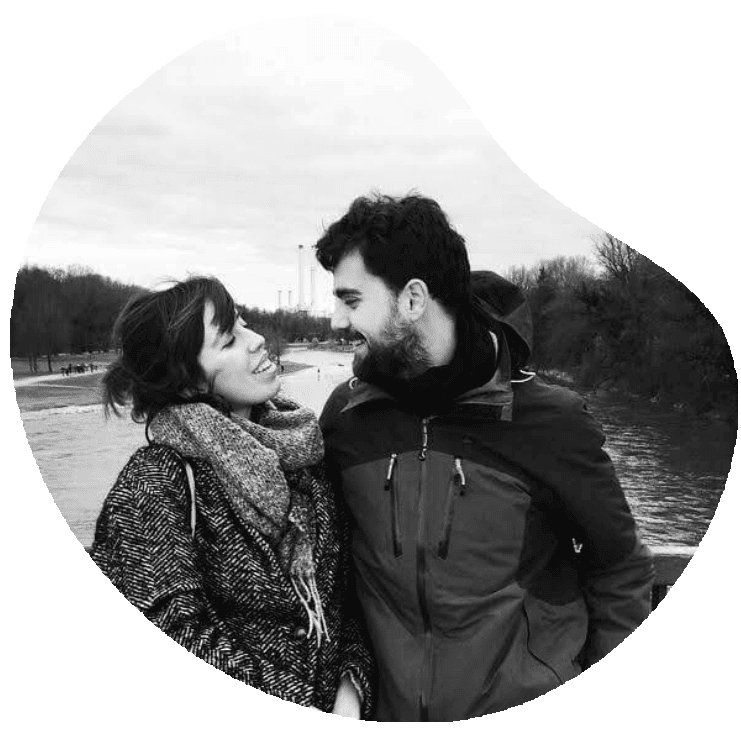
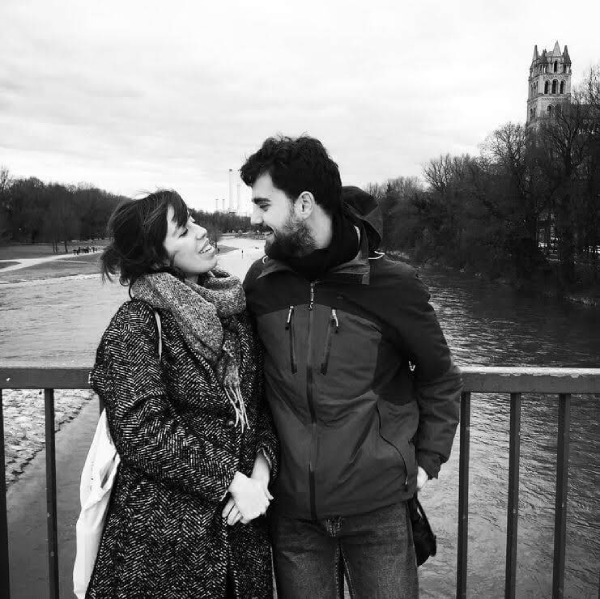
fix: style errors

diff --git a/components/pages/PatreonSection/index.js b/components/pages/PatreonSection/index.js
@@ -1,46 +1,57 @@
 /** @jsxImportSource theme-ui */
-import { useRouter } from 'next/router';
+import Router, { useRouter } from 'next/router';
 import { PropTypes } from 'prop-types';
-import { Box, Themed } from 'theme-ui';
+import { Box, Flex, Image, Themed } from 'theme-ui';
 
 import imageRoutes from '../../../constants/imageRoutes';
+import routes from '../../../constants/routes';
 import styles from './styles';
 
-const PatreonSection = ({ language }) => {
+const PatreonSection = ({ layout, language }) => {
   const router = useRouter();
   const { isKid, success } = router.query;
 
+  const handleArrow = () =>
+    Router.push({
+      hash: routes.faq,
+    });
+
+  const { title, thanks, kidComment, paragraph } = layout.patreon;
+
   return (
-    <section id="patreon" sx={styles?.container(imageRoutes.mancha_4)}>
-      <Themed.h1>REGALO / REGISTRY</Themed.h1>
+    <section
+      id="patreon"
+      sx={styles?.container('', imageRoutes.mobile_0_back3)}
+    >
+      <Themed.h1>{title}</Themed.h1>
       <Box sx={styles?.textContainer}>
         <Box>
-          {success && (
-            <Themed.h2 sx={styles.text}>
-              {language === 'es'
-                ? '¡Gracias! Ya formas parte del clan brigada!'
-                : 'Thanks! You are now part of our clan "Brigada"!'}
-            </Themed.h2>
-          )}
+          {success && <Themed.h2 sx={styles.text}>{thanks}</Themed.h2>}
           {isKid === 'true' && (
-            <Themed.h2 sx={styles.text}>
-              {language === 'es'
-                ? 'Si has marcado que vienes con tus peques, nos pondremos en contacto contigo'
-                : 'If you said you will bring your kids, we will contact you'}
-            </Themed.h2>
+            <Themed.h2 sx={styles.text}>{kidComment}</Themed.h2>
           )}
         </Box>
-        <Themed.h2 sx={styles.text}>
-          {language === 'es'
-            ? 'No tenemos lista de bodas,\n¡Lo que sí tenemos son ganas de celebrar, bailar, comer y beber con todos vosotros!\nAnte las preguntas recibidas, si os apetece patrocinar nuestra luna de miel os dejamos el siguiente número de cuenta:'
-            : "We don't have a wedding registry,\n¡What we are so excited about is celebrating, dancing and drinking with all of you!\nAfter receiving some questions about this, if you'd still want to be a patreon to our honeymoon, here's the following bank account:"}
-        </Themed.h2>
-        <Themed.h2 sx={styles.iban}>{`IBAN: ${
+        {paragraph?.map((line, id) => (
+          <Themed.h2 key={id} sx={styles.text}>
+            {line}
+          </Themed.h2>
+        ))}
+
+        <Themed.h2 sx={styles.iban}>{`IBAN:\n${
           process.env.NEXT_PUBLIC_IBAN_NUMBER_COUNTRY
         } ${process.env.NEXT_PUBLIC_IBAN_NUMBER?.replace(
           /-+/g,
           ' ',
         )}`}</Themed.h2>
+        <Flex sx={styles?.rowCenter}>
+          <Image
+            loading="lazy"
+            alt="arrow-icon"
+            src={imageRoutes?.arrowDown}
+            sx={styles?.arrow}
+            onClick={handleArrow}
+          />
+        </Flex>
       </Box>
     </section>
   );

diff --git a/components/pages/AddressSection/index.js b/components/pages/AddressSection/index.js
@@ -9,21 +9,31 @@ import SpeedBox from '../../Commons/SpeedBox';
 import styles from './styles';
 
 const AddressSection = ({ layout }) => {
-  const { title, place, href, street, description, warning } = layout.address;
+  const {
+    title,
+    link,
+    place,
+    href,
+    street,
+    descriptionTitle,
+    description,
+    warningTitle,
+    warning,
+  } = layout.address;
   const handleArrow = () =>
     Router.push({
       hash: routes.guestList,
     });
   return (
     <section id="address" sx={styles?.section}>
-      <SpeedBox speed="-0.5" src={imageRoutes?.desktop_1_Gotis} name="drops" />
-      <SpeedBox speed="-0.3" src={imageRoutes?.mancha_1} name="mancha1" />
+      <SpeedBox src={imageRoutes?.desktop_1_Gotis} name="drops" />
+      <SpeedBox src={imageRoutes?.mancha_1} name="mancha1" />
       <Box sx={styles?.container}>
         <Box>
           <Themed.h1>{title}</Themed.h1>
           <Themed.h1 sx={styles.undercase}>{place}</Themed.h1>
           <Link href={href} target="_blank">
-            Visita su página Web
+            {link}
           </Link>
         </Box>
         <Flex sx={styles?.row}>
@@ -34,20 +44,13 @@ const AddressSection = ({ layout }) => {
             alt="finca"
           />
           <Box sx={styles.rightColumn}>
-            <Flex sx={styles?.street}>
-              <Image
-                loading="lazy"
-                alt="compass-icon"
-                src={imageRoutes?.icon_compass}
-                sx={styles?.icon}
-              />
-
-              <Themed.h3 sx={styles?.text}>{street}</Themed.h3>
-            </Flex>
+            <Themed.h2>{street}</Themed.h2>
             <Flex sx={styles?.street}>
               <Box>
-                <Themed.h3 sx={styles?.text}>{description}</Themed.h3>
-                <Themed.h3 sx={styles?.text}>{warning}</Themed.h3>
+                <Themed.h3>{descriptionTitle}</Themed.h3>
+                <Themed.p sx={styles?.text}>{description}</Themed.p>
+                <Themed.h3>{warningTitle}</Themed.h3>
+                <Themed.p sx={styles?.text}>{warning}</Themed.p>
               </Box>
             </Flex>
           </Box>

diff --git a/components/pages/PatreonSection/styles.js b/components/pages/PatreonSection/styles.js
@@ -1,17 +1,22 @@
 const styles = {
-  container: (src) => ({
-    maxHeight: '900px',
-    my: '100px',
-    backgroundImage: ['', `url(${src})`],
-    backgroundRepeat: 'no-repeat',
-    backgroundSize: ['contain', 'auto'],
-    backgroundPosition: ['center', 'center top 30px'],
+  container: (src, srcMobile) => ({
+    minHeight: ['90vh', '900px'],
+    mt: '100px',
     color: 'black',
     textAlign: 'left',
-    p: ['85px 20px 130px', '250px 300px'],
+    p: ['85px 20px 0px', '250px 80px'],
+    backgroundImage: [`url(${srcMobile || src})`, `url(${src})`],
+    backgroundRepeat: 'no-repeat',
+    backgroundSize: 'contain',
+    backgroundPosition: 'initial',
+    width: ['auto', '100vw'],
+    maxWidth: ['auto', '100%'],
+    maxHeight: ['100%', 'calc(100vh + 85px)'],
   }),
   iban: {
-    fontFamily: 'regular',
+    fontFamily: 'heading',
+    whiteSpace: ['pre-wrap', 'normal', 'normal'],
+    fontSize: ['18px', '22px', '22px'],
     color: 'inherit',
     p: '10px 0px',
     width: '100%',
@@ -19,21 +24,33 @@ const styles = {
     '&:hover': {
       bg: 'yellow',
     },
+    textAlign: ['left', 'center', 'center'],
   },
   text: {
     color: 'black',
     whiteSpace: 'pre-wrap',
+    fontSize: ['18px', '22px', '22px'],
+    textAlign: 'justify',
+    lineHeight: '24px',
   },
   textContainer: {
     flexDirection: 'column',
     alignItems: 'center',
     justifyContent: 'center',
-    background: ['rgba(255,255,255,0.5)', 'none'],
-    '-webkit-backdrop-filter': ['blur(10px)', 'none'],
-    backdropFilter: ['blur(10px)', 'none'],
-    border: ['1px solid rgba(255,255,255,0.25)', '0px'],
-    p: ['20px', '0px'],
-    borderRadius: ['20px', '0px'],
+    borderRadius: '20px',
+    background: 'rgba(255,255,255,0.5)',
+    '-webkit-backdrop-filter': 'blur(10px)',
+    backdropFilter: 'blur(10px)',
+    border: '1px solid rgba(255,255,255,0.25)',
+    p: '20px',
+  },
+  rowCenter: {
+    justifyContent: 'center',
+  },
+  arrow: {
+    width: '50px',
+    height: 'auto',
+    mt: '0px',
   },
 };
 

diff --git a/components/pages/AddressSection/styles.js b/components/pages/AddressSection/styles.js
@@ -1,11 +1,11 @@
 const styles = {
   section: {
     maxHeight: '900px',
-    position:'relative'
+    position: 'relative',
   },
   container: {
     my: ['50px', '100px'],
-    p: ['85px 30px', '20px 80px'],
+    p: ['85px 30px','20px 80px', '20px 150px'],
   },
   row: {
     alignItems: 'center',
@@ -23,15 +23,19 @@ const styles = {
     '-webkit-backdrop-filter': 'blur(10px)',
     backdropFilter: 'blur(10px)',
     border: '1px solid rgba(255,255,255,0.25)',
-    p:'20px'
+    p: '20px',
+    maxWidth:['auto', '40vw', '40vw']
   },
   street: {
     mb: ['15px', '30px'],
+    alignItems:'center'
   },
   text: {
+    whiteSpace: 'pre-wrap',
     ml: ['10px', '20px'],
-    mb: ['10px', '30px'],
-    fontFamily:'light'
+    my: '10px',
+    fontFamily: 'light',
+    fontSize: '16px',
   },
   image: {
     clipPath: 'polygon(30% 70% 70% 30% / 30% 30% 70% 70%)',
@@ -44,9 +48,10 @@ const styles = {
     mt: '30px',
   },
   icon: {
-    width: '80px',
+    width: '50px',
     height: '100%',
     objectFit: 'contain',
+    mr: ['0px', '20px', '20px'],
   },
   map: {
     width: 'fit-content',
@@ -57,9 +62,9 @@ const styles = {
   rowCenter: {
     justifyContent: 'center',
   },
-  undercase:{
-    textTransform:'capitalize',
-  }
+  undercase: {
+    textTransform: 'capitalize',
+  },
 };
 
 export default styles;

diff --git a/components/pages/welcomeSection/index.js b/components/pages/welcomeSection/index.js
@@ -22,13 +22,22 @@ const WelcomeSection = ({ layout }) => {
   return (
     <section id="home">
       <SpeedBox
-        speed="0.1"
         className="welcome"
         src={imageRoutes?.desktop_0_Home_back}
         srcMobile={imageRoutes?.mobile_0_back}
       />
       <Box sx={styles?.container}>
+        <svg height="0" width="0">
+          <clipPath id="blob">
+            <path
+              transform="translate(0 0)"
+              d="M429.5,286.5Q401,333,357.5,350.5Q314,368,277,390Q240,412,187.5,416.5Q135,421,85,390Q35,359,42,299.5Q49,240,54.5,188Q60,136,96.5,95.5Q133,55,186.5,52.5Q240,50,278.5,78Q317,106,355.5,128.5Q394,151,426,195.5Q458,240,429.5,286.5Z"
+            />
+          </clipPath>
+          
+        </svg>
         <Image src={imageRoutes?.couple} sx={styles?.image} alt="couple" />
+        <Image src={imageRoutes?.coupleMobile} sx={styles?.imageMobile} alt="couple" />
         <Flex sx={styles?.column}>
           <Box>
             <Themed.h1 sx={styles?.title}>SOFI & JAVI</Themed.h1>

diff --git a/styles/styles.js b/styles/styles.js
@@ -1,10 +1,3 @@
-import { keyframes } from '@emotion/react';
-
-const fadeBottom = keyframes({
-  from: { transform: 'translateY(150px)', opacity: 0 },
-  to: { transform: 'translateY(0)', opacity: 1 },
-});
-
 export const styles = {
   root: {
     overflowX: 'hidden',
@@ -26,12 +19,15 @@ export const styles = {
   h2: {
     variant: 'text.heading',
     fontSize: 5,
+    whiteSpace: 'pre-wrap',
   },
   h3: {
     variant: 'text.heading',
+    fontFamily: 'headingBold',
     fontSize: 3,
     mb: '5px',
     mt: '0px',
+    whiteSpace: 'pre-wrap',
   },
   h4: {
     variant: 'text.heading',

diff --git a/components/pages/welcomeSection/styles.js b/components/pages/welcomeSection/styles.js
@@ -14,9 +14,16 @@ const styles = {
     justifyContent: 'space-between',
   },
   image: {
-    clipPath: 'polygon(30% 70% 70% 30% / 30% 30% 70% 70%)',
+    display: ['none', 'block'],
+    borderRadius: '50%',
     maxWidth: ['80vw', '380px', '480px'],
     height: 'auto',
+  },
+  imageMobile: {
+    display: ['block', 'none'],
+    maxWidth: ['80vw', '380px', '480px'],
+    height: 'auto',
+    borderRadius: '50%',
   },
   arrow: {
     width: '50px',

diff --git a/constants/imageRoutes.js b/constants/imageRoutes.js
@@ -2,6 +2,7 @@ export default {
   menu: '/static/assets/images/menu_black.svg',
   close: '/static/assets/images/close_black.svg',
   couple: '/static/assets/images/couple.png',
+  coupleMobile: '/static/assets/images/couple_mobile.png',
   background: '/static/assets/images/background_small.png',
   arrowDown: '/static/assets/images/arrow_down.png',
   test: '/static/assets/images/test.png',

diff --git a/styles/fonts.js b/styles/fonts.js
@@ -2,6 +2,6 @@ export const fonts = {
   regular: 'RobotoSlab-Regular',
   bold: 'RobotoSlab-Bold',
   heading: 'JosefinSans-light',
-  headingBold: 'JosefinSans-bold',
+  headingBold: 'JosefinSans-Medium',
   light: 'RobotoSlab-Light',
 };

diff --git a/components/Commons/SpeedBox/index.js b/components/Commons/SpeedBox/index.js
@@ -7,11 +7,9 @@ const SpeedBox = ({
   className,
   src,
   srcMobile,
-  speed = '-0.6',
   name = 'container',
 }) => (
   <Box
-    data-speed={speed}
     className={className}
     sx={() => styles?.[name](src, srcMobile)}
   />
